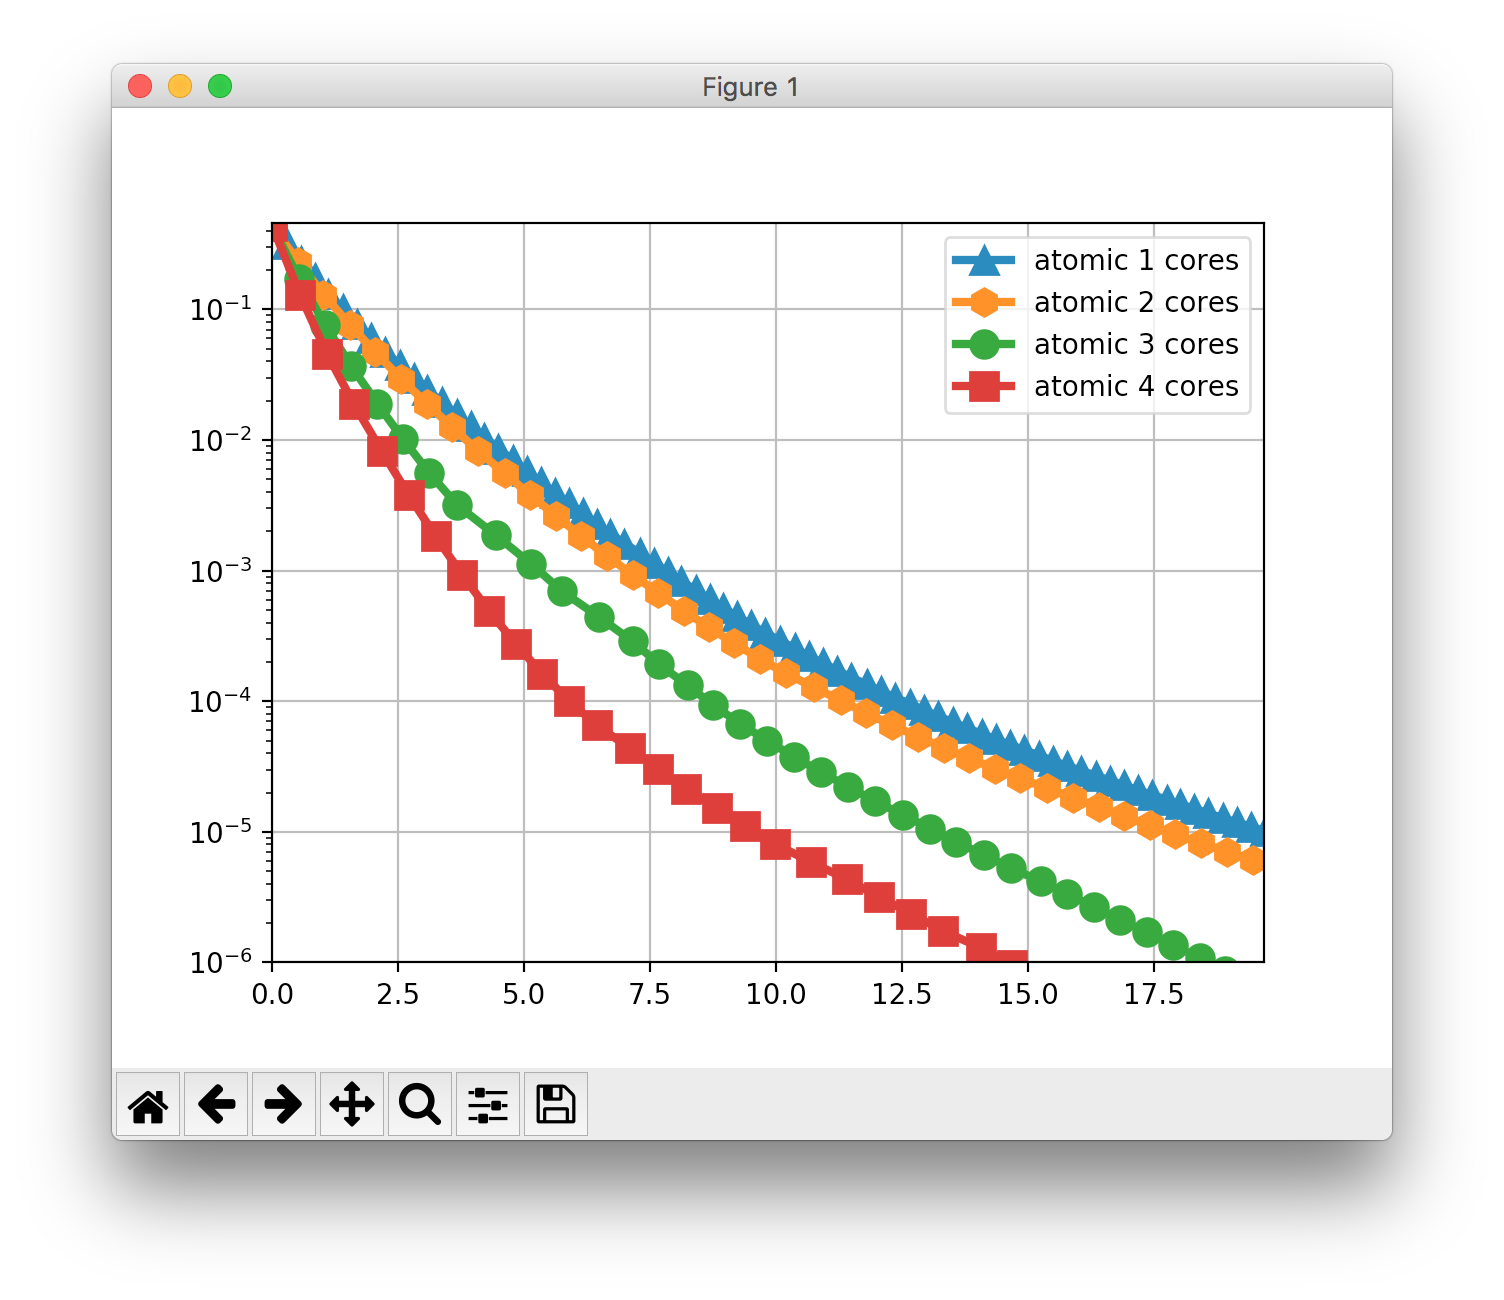
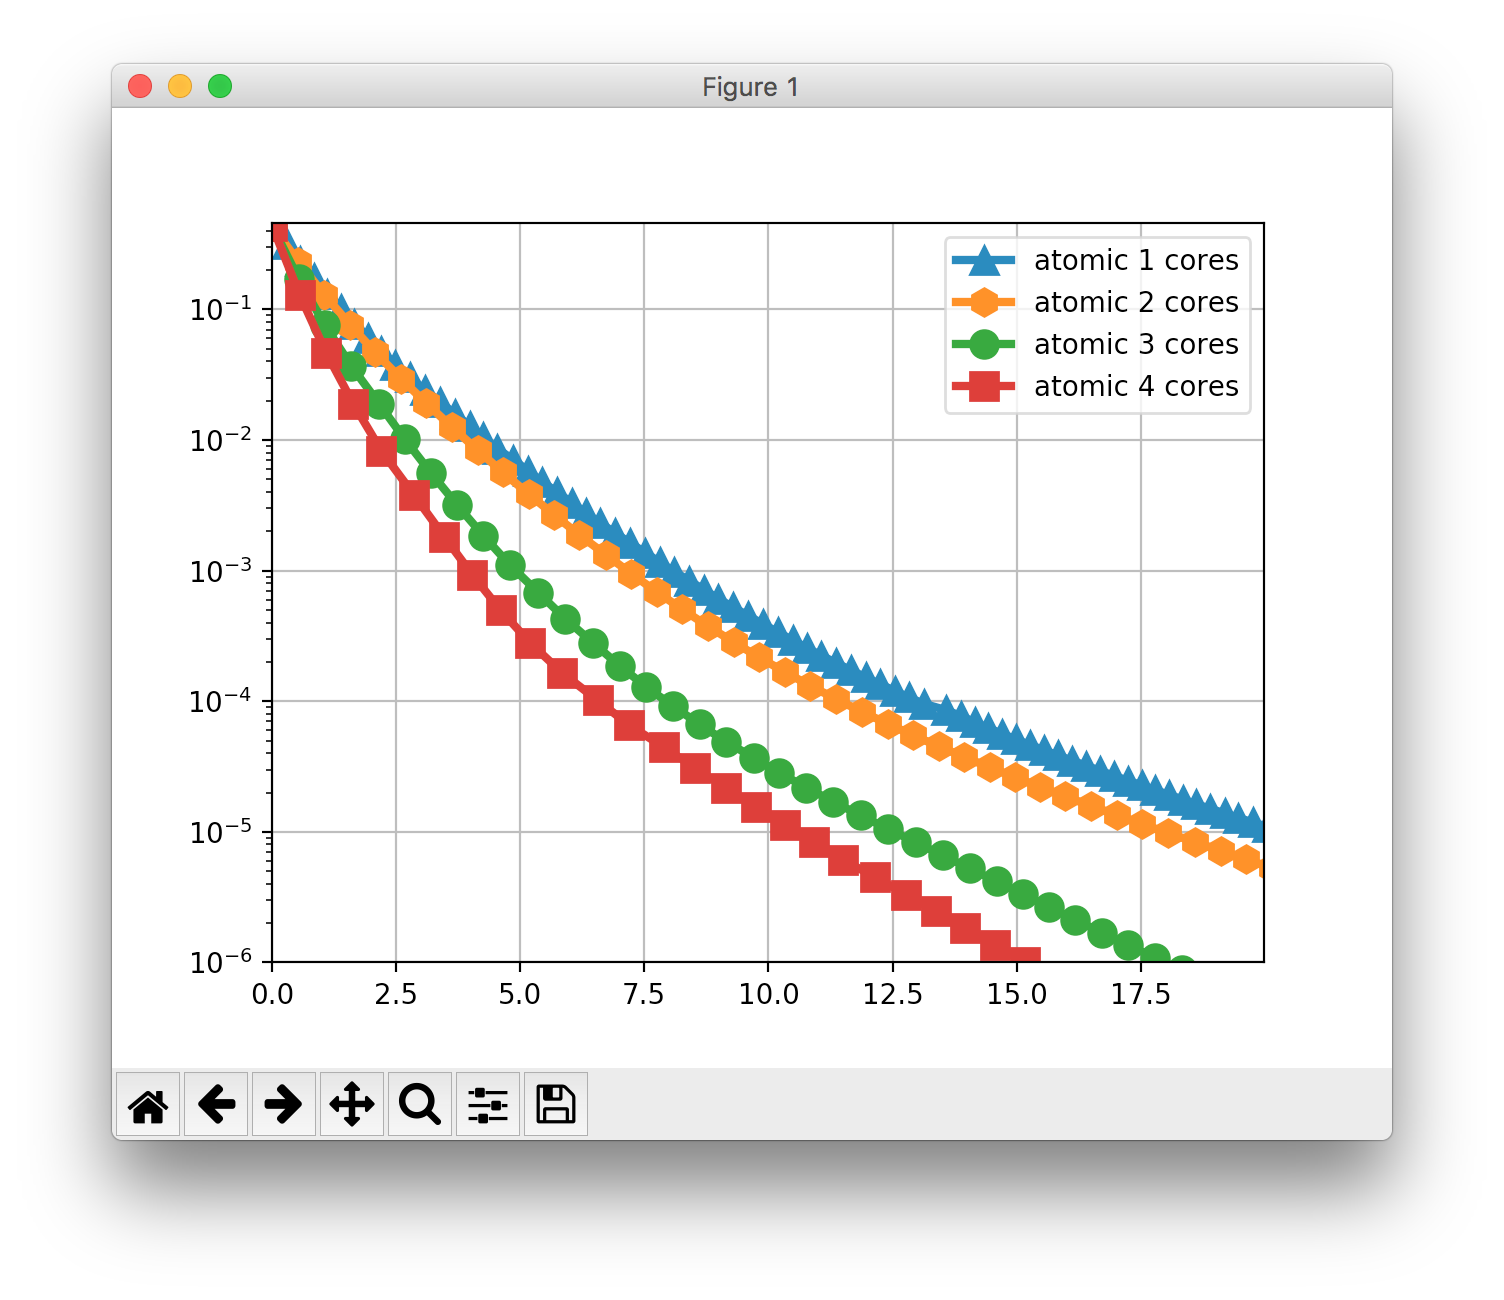
update screenshot

diff --git a/prox_asaga.py b/prox_asaga.py
@@ -83,7 +83,7 @@ if __name__ == '__main__':
         x, trace_time, func_trace = minimize_SAGA(
             X, y, alpha, beta, step_size_SAGA, max_iter=int(200 / n_jobs), n_jobs=n_jobs)
         fmin = np.min(func_trace)
-        plt.plot(trace_time, func_trace - fmin, label='atomic %s cores' % n_jobs, marker=markers[i], markersize=10, lw=3)
+        plt.plot(trace_time, func_trace - fmin, label='using %s cores' % n_jobs, marker=markers[i], markersize=10, lw=3)
     plt.grid()
     plt.legend()
     plt.xlim((0, trace_time[-1] * .7))
